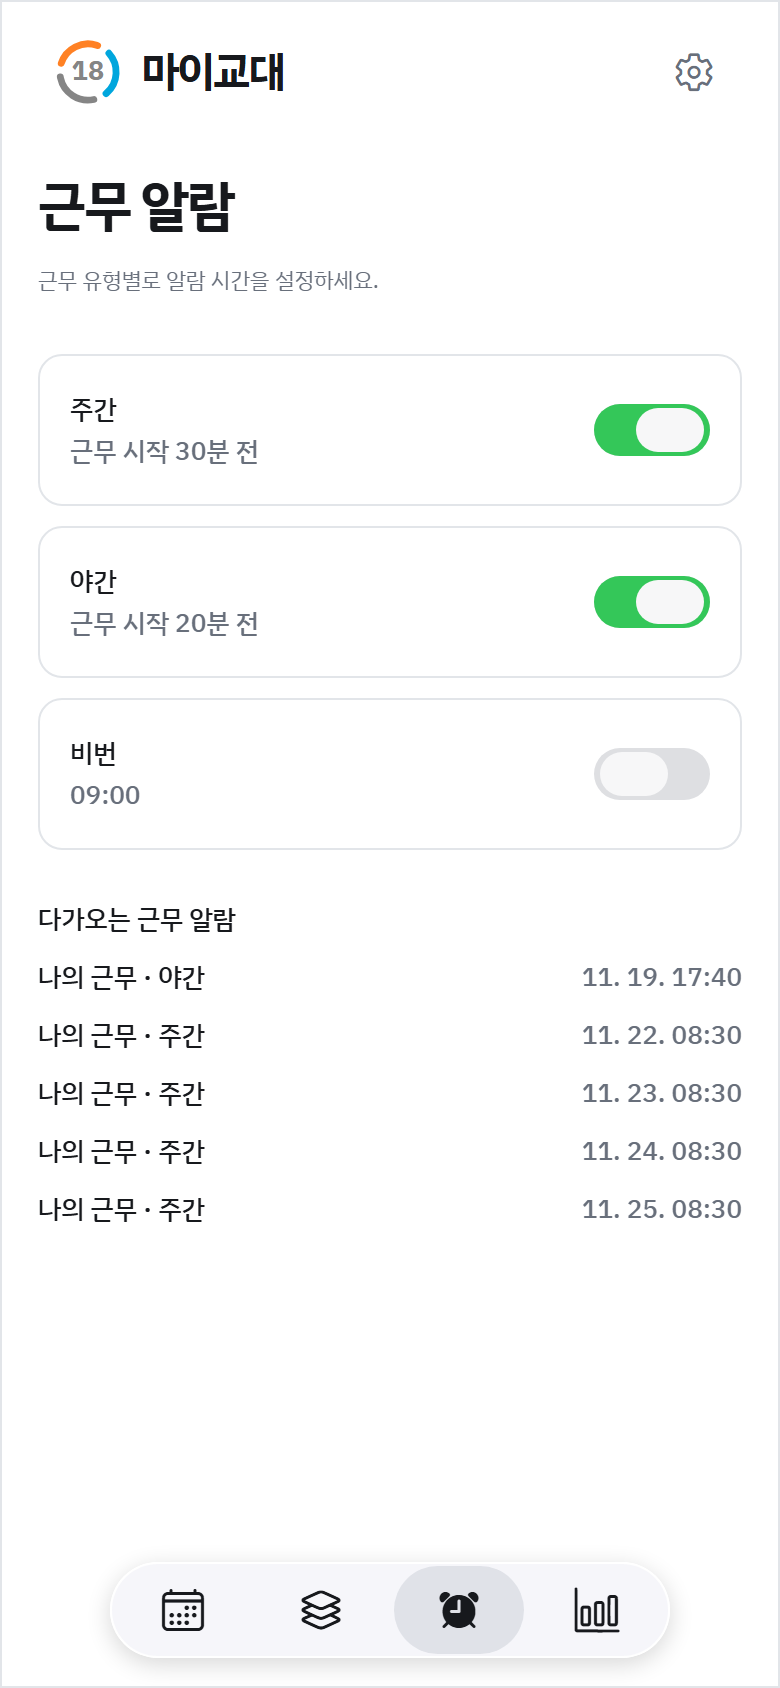
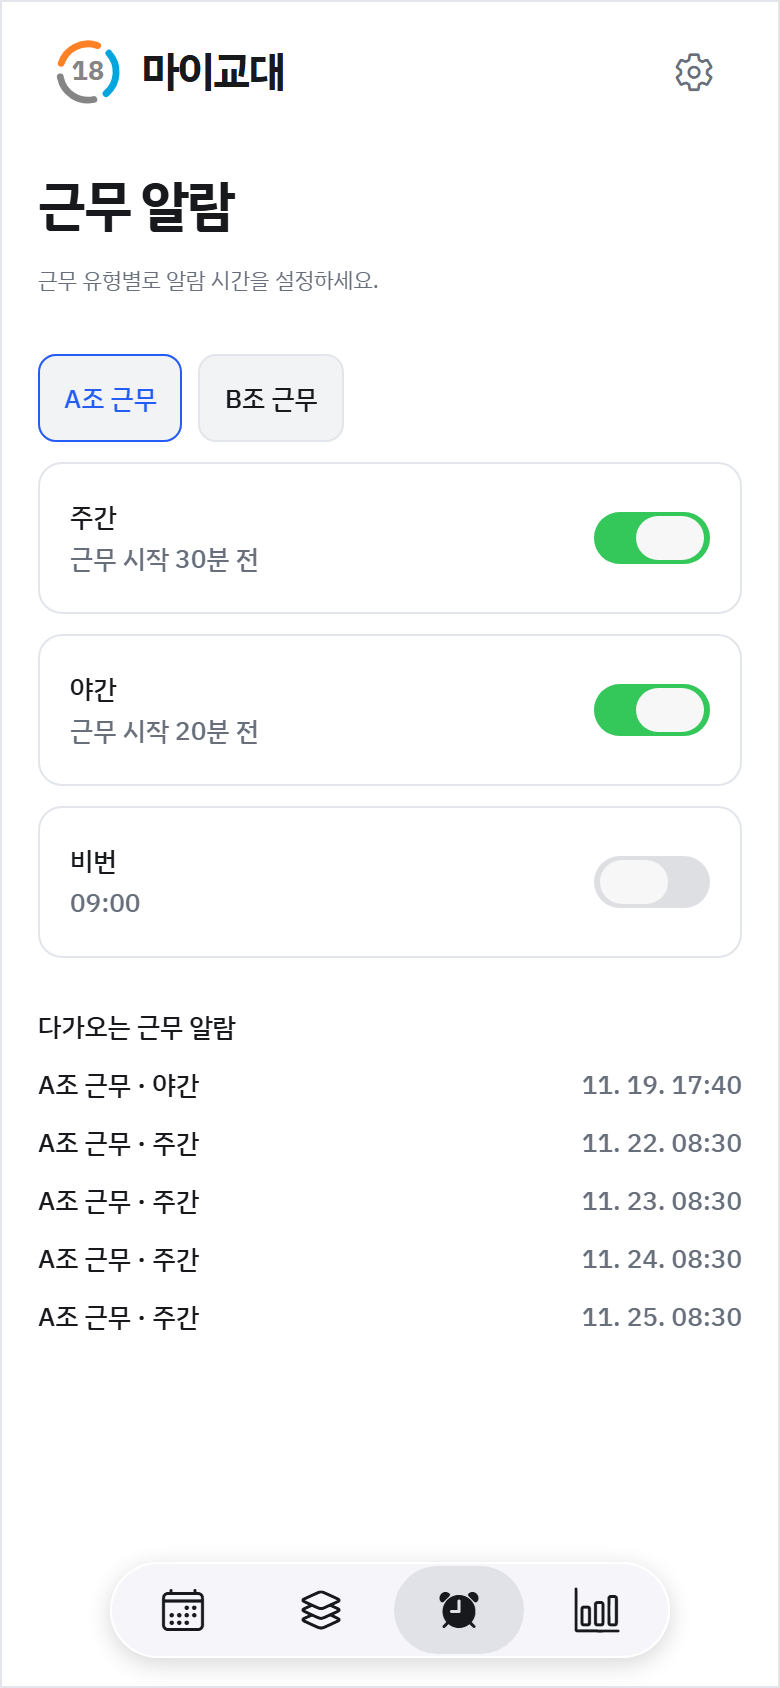
마이교대 소개와 다운로드 페이지 개편

diff --git a/README.md b/README.md
@@ -1,22 +1,61 @@
-<h1 align="left"><img src="assets/android-launcher.png" width="56" height="56" align="absmiddle" alt=""> 마이교대</h1>
+# 마이교대
 
-마이교대는 교대 근무자를 위한 근무 달력입니다. 반복되는 근무 순서와 시작일을 설정하면 달력에서 주간·야간·비번을 한눈에 볼 수 있습니다.
+<a href="https://github.com/doraemyon/my-shift-app/releases/">
+  <img src="docs/readme/cover.png" width="100%" alt="마이교대. 내 근무표를 한눈에. 근무 달력과 알람 화면">
+</a>
 
-[![Android 앱 다운로드](https://img.shields.io/badge/Android%20%EC%95%B1%20%EB%8B%A4%EC%9A%B4%EB%A1%9C%EB%93%9C-061450?style=for-the-badge&logo=android&logoColor=white)](https://github.com/doraemyon/my-shift-app/releases/)
+**교대 근무자를 위한 근무 달력입니다.** 주간·야간·비번이 돌아오는 날을 한눈에 보고, 근무에 맞춰 알람을 설정하세요.
+
+<a href="https://github.com/doraemyon/my-shift-app/releases/">
+  <img src="docs/readme/download-android.png" width="244" height="54" alt="Android 앱 다운로드">
+</a>
+
+<sub><a href="https://github.com/doraemyon/my-shift-app/releases/tag/v1.0.1">v1.0.1 변경 내역</a> · APK 45.3 MB · Android 7 이상 · ARM64</sub>
+
+[주요 기능](#주요-기능) · [화면 미리 보기](#화면-미리-보기) · [설치 안내](#설치하고-시작하기)
+
+---
+
+## 내 교대 일정에 맞는 달력
+
+첫 근무 날짜와 반복 순서를 정하면 달력에 근무가 자동으로 표시됩니다. 이번 주 야간 근무를 확인하거나 다음 달 비번에 맞춰 약속을 잡을 수 있습니다. 근무조가 바뀌면 기존 플랜을 수정하거나 별도의 플랜을 추가하세요.
 
 ## 주요 기능
 
-- **교대근무 달력** — 4조 2교대와 3조 2교대 등 근무 패턴을 선택하거나 직접 만들 수 있습니다. 근무 이름과 표기도 원하는 방식으로 설정할 수 있습니다.
-- **여러 근무 플랜** — 회사나 조별로 근무표를 저장하고 달력에 표시할 플랜을 선택합니다. 날짜마다 메모를 남길 수 있습니다.
-- **근무 알람** — 근무 종류별로 시작 몇 분 전이나 지정한 시각에 알람을 받을 수 있습니다.
-- **달력 연동과 공유** — 근무 일정과 날짜 메모를 기기 달력에 연동하거나, 보고 있는 달의 근무표를 이미지로 공유할 수 있습니다.
-- **근무 통계** — 주간·월간 예정 근무시간과 근무일을 확인합니다.
-- **화면 모드와 앱 잠금** — 라이트·다크 모드를 선택하고, 지원하는 기기에서 지문·얼굴 인식·기기 암호로 앱을 잠글 수 있습니다.
+| 기능 | 할 수 있는 일 |
+| --- | --- |
+| 교대 패턴 | 4조 2교대나 3조 2교대 등의 프리셋을 선택하거나 근무 순서를 직접 만듭니다. 근무 이름, 한 글자 표기, 시작·종료 시간도 바꿀 수 있습니다. |
+| 여러 근무 플랜 | 회사나 근무조별로 플랜을 저장하고, 달력에 표시할 플랜을 선택합니다. |
+| 날짜 메모 | 인수인계나 개인 일정을 날짜에 남깁니다. 달력에서 메모가 있는 날을 확인할 수 있습니다. |
+| 근무 알람 | 주간·야간은 근무 시작 몇 분 전이나 지정한 시각에, 비번은 원하는 시각에 알람을 설정합니다. |
+| 기기 달력 연동 | 근무 표기와 날짜 메모를 종일 일정으로 반영합니다. |
+| 월간 근무표 공유 | 보고 있는 달의 근무표를 이미지로 공유합니다. |
+| 근무 통계 | 주간·월간 예정 근무시간, 근무일, 비번을 확인합니다. |
+| 화면 모드와 앱 잠금 | 시스템·라이트·다크 모드를 선택합니다. 지원 기기에서는 지문, 얼굴 인식 또는 기기 암호로 앱을 잠글 수 있습니다. |
 
-## 앱 화면
+## 화면 미리 보기
 
-<p>
-  <img src="docs/screenshots/calendar.png" width="231" alt="월간 근무 달력">
-  <img src="docs/screenshots/alarms.png" width="231" alt="근무 유형별 알람 설정">
-  <img src="docs/screenshots/statistics.png" width="231" alt="월간 근무 통계">
-</p>
+<table>
+  <tr>
+    <td align="center"><img src="docs/screenshots/calendar.png" width="235" alt="월간 근무 달력"><br><sub>주간·야간·비번을 한눈에</sub></td>
+    <td align="center"><img src="docs/screenshots/plans.png" width="235" alt="나의 플랜 목록"><br><sub>근무조별 플랜 선택</sub></td>
+    <td align="center"><img src="docs/screenshots/alarms.png" width="235" alt="근무 종류별 알람"><br><sub>근무별 알람과 예정 시간</sub></td>
+  </tr>
+  <tr>
+    <td align="center"><img src="docs/screenshots/memo.png" width="235" alt="날짜별 근무 상세와 메모"><br><sub>근무 상세와 날짜 메모</sub></td>
+    <td align="center"><img src="docs/screenshots/statistics.png" width="235" alt="주간 및 월간 근무 통계"><br><sub>주간·월간 예정 근무시간</sub></td>
+    <td align="center"><img src="docs/screenshots/calendar-dark.png" width="235" alt="다크 모드 근무 달력"><br><sub>다크 모드 달력</sub></td>
+  </tr>
+</table>
+
+## 설치하고 시작하기
+
+1. [Releases](https://github.com/doraemyon/my-shift-app/releases/)에서 최신 버전의 **Assets**를 열고 `.apk` 파일을 받으세요.
+2. Android에서 받은 파일을 열어 설치하세요. 설치 권한을 묻는 경우 화면 안내에 따라 해당 앱의 설치 권한을 허용하세요.
+3. 첫 플랜의 이름과 근무 패턴, 표기, 시작 날짜를 정하면 근무표를 볼 수 있습니다.
+
+이전 테스트 APK를 사용하셨다면 [v1.0.1 변경 내역](https://github.com/doraemyon/my-shift-app/releases/tag/v1.0.1)의 재설치 안내를 확인해 주세요.
+
+## 권한과 데이터
+
+플랜과 날짜 메모는 기기에 저장합니다. 기기 달력 연동을 켜면 선택한 플랜의 근무 표기와 메모가 해당 달력에 추가됩니다. 근무 알람을 설정할 때는 Android에서 알림과 정확한 알람 권한을 허용해 주세요.
